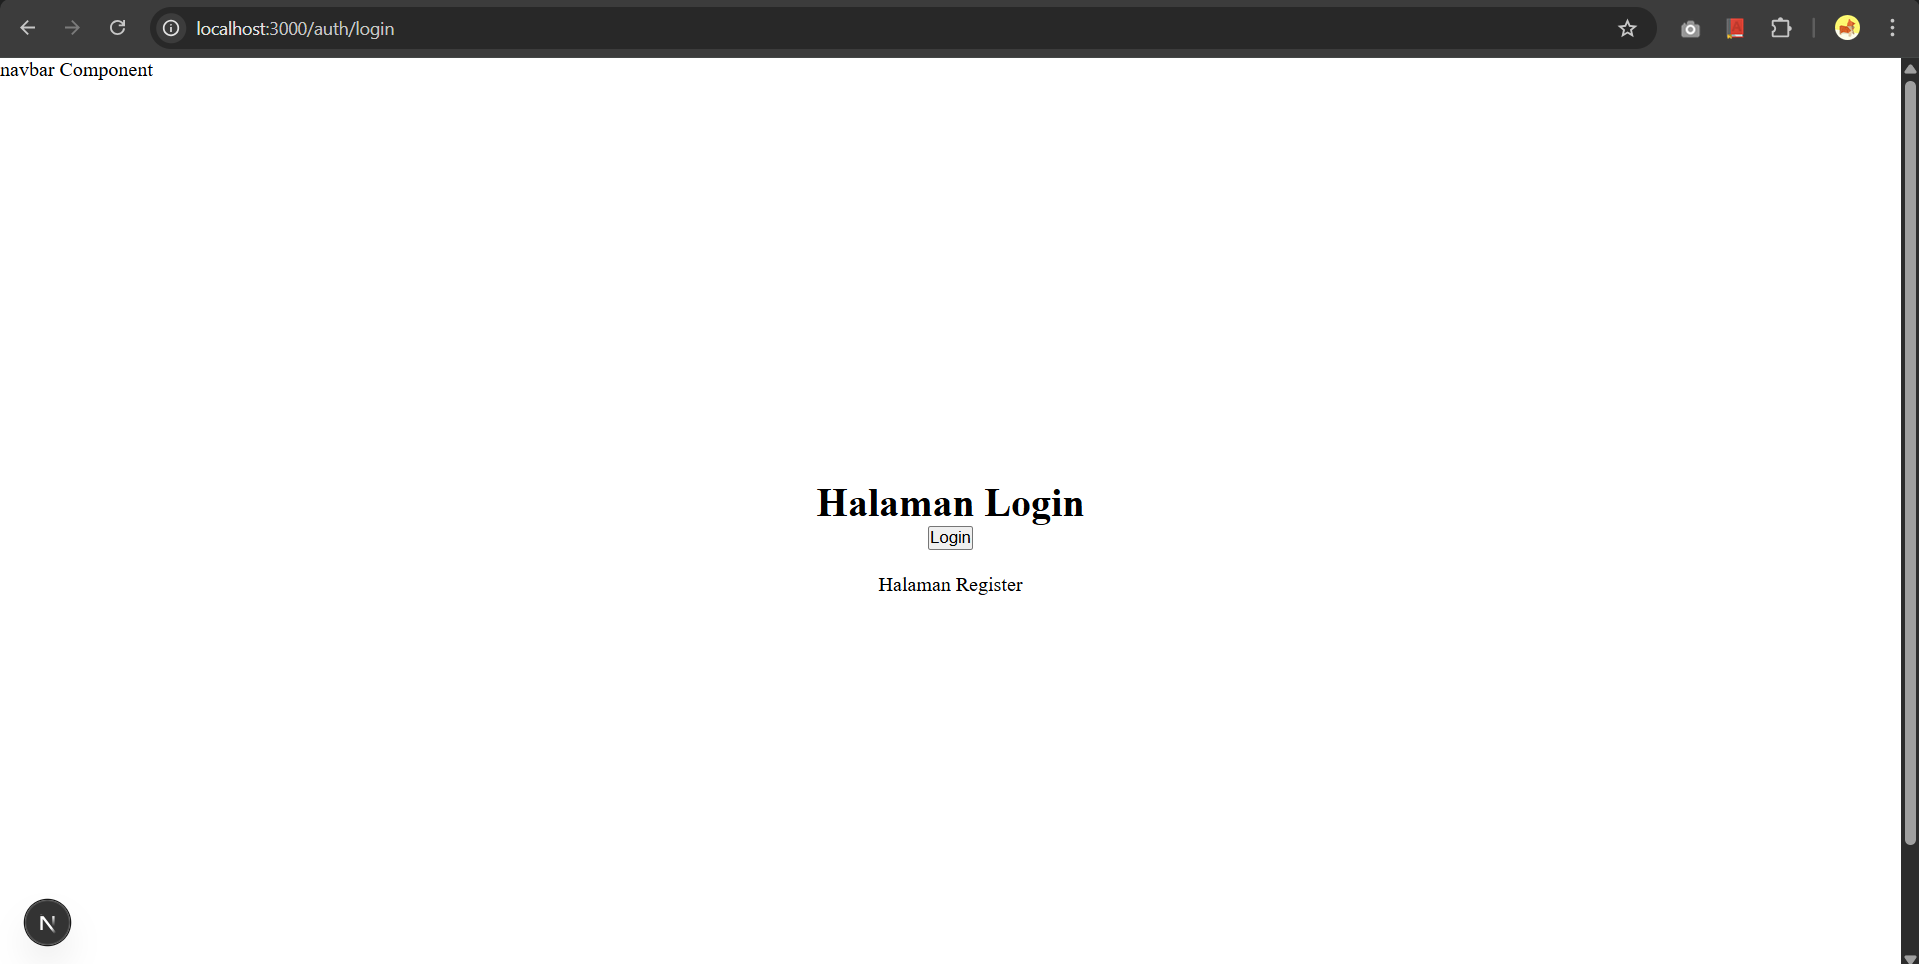
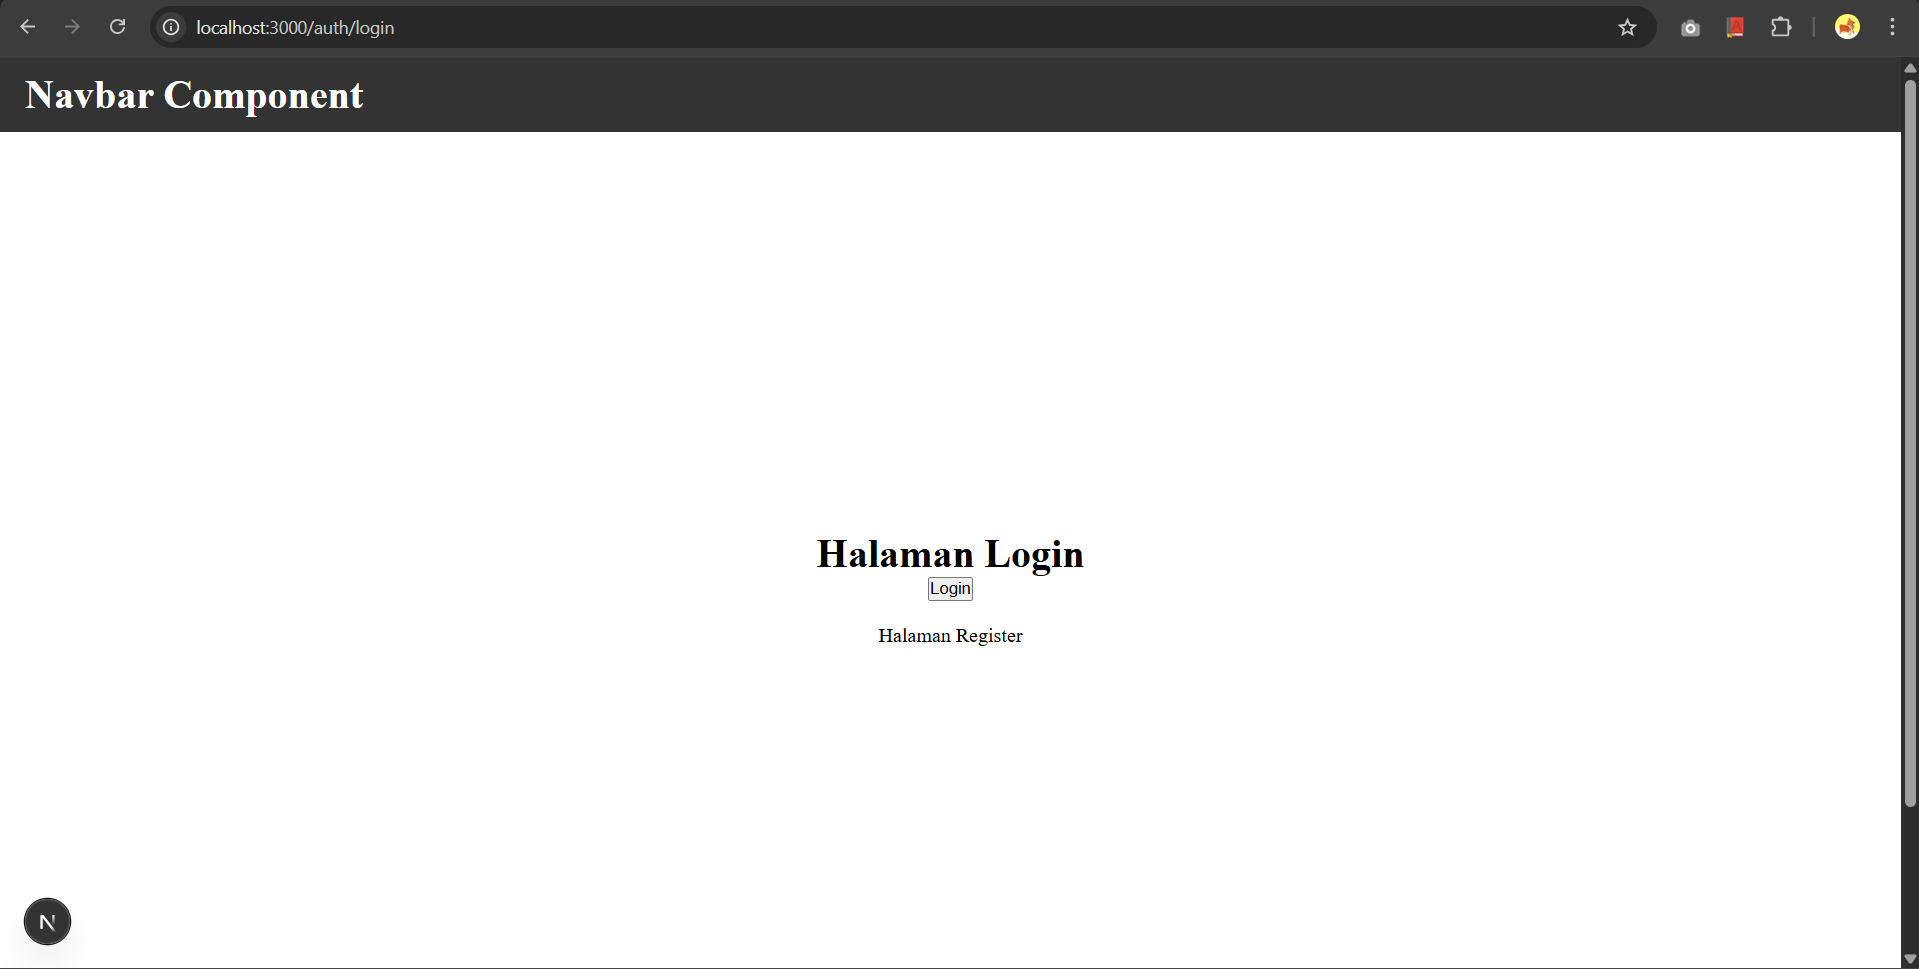
feat(praktikum-005): Menyelesaikan praktikum-005 langkah-4

diff --git a/Praktikum 005/src/components/layouts/AppShell/index.tsx b/Praktikum 005/src/components/layouts/AppShell/index.tsx
@@ -1,5 +1,10 @@
-import Footer from "../Footer";
+import { useRouter } from "next/router";
 import Navbar from "../navbar";
+
+const disableNavbar = [
+  "/auth/login",
+  "/auth/register",
+];
 
 type AppShellProps = {
   children: React.ReactNode;
@@ -7,12 +12,16 @@ type AppShellProps = {
 
 const AppShell = (props: AppShellProps) => {
   const { children } = props;
+  const router = useRouter();
+  const { pathname } = router;
+
+  // console.log("Router Object:", router);
+  // console.log("Current Pathname:", pathname);
 
   return (
     <main>
-      <Navbar />
+      {!disableNavbar.includes(pathname) && <Navbar />}
       {children}
-      <Footer />
     </main>
   );
 };

diff --git a/Praktikum 005/src/pages/index.tsx b/Praktikum 005/src/pages/index.tsx
@@ -1,13 +1,14 @@
-import styles from './navbar.module.css';
+import Image from "next/image";
+import { Inter } from "next/font/google";
 
-const Navbar = () => {
+const inter = Inter({ subsets: ["latin"] });
+
+export default function Praktikum() {
   return (
-    <div className={styles.navbar}>
-      <div>
-        <h1>Navbar Component</h1> 
-      </div>
+    <div className={inter.className}>
+      <h1>Praktikum Next.js Pages</h1>
+      <p>Nama: Key Firdausi Alfarel</p>
+      <p>NIM: 2341729186</p>
     </div>
   );
-};
-
-export default Navbar;
+}

diff --git a/Praktikum 005/src/components/layouts/navbar/index.tsx b/Praktikum 005/src/components/layouts/navbar/index.tsx
@@ -1,9 +1,13 @@
+import styles from '../../../styles/navbar.module.css';
+
 const Navbar = () => {
   return (
-    <div className="navbar">
-      <div>navbar Component</div>
+    <div className={styles.navbar}>
+      <div>
+        <h1>Navbar Component</h1> 
+      </div>
     </div>
   );
-}; 
+};
 
 export default Navbar;

diff --git a/Praktikum 005/README.md b/Praktikum 005/README.md
@@ -35,6 +35,14 @@
 ![Styling untuk Pages (CSS Module)](public/docs/langkah-3d.png)
 ![Styling untuk Pages (CSS Module)](public/docs/langkah-3e.png)
 
+### 4. Styling untuk Components (CSS Module)
+
+![Styling untuk Components (CSS Module)](public/docs/langkah-4a.png)
+![Styling untuk Components (CSS Module)](public/docs/langkah-4b.png)
+![Styling untuk Components (CSS Module)](public/docs/langkah-4c.png)
+![Styling untuk Components (CSS Module)](public/docs/langkah-4d.png)
+![Styling untuk Components (CSS Module)](public/docs/langkah-4e.png)
+
 ---
 
 ## Tugas Mandiri
